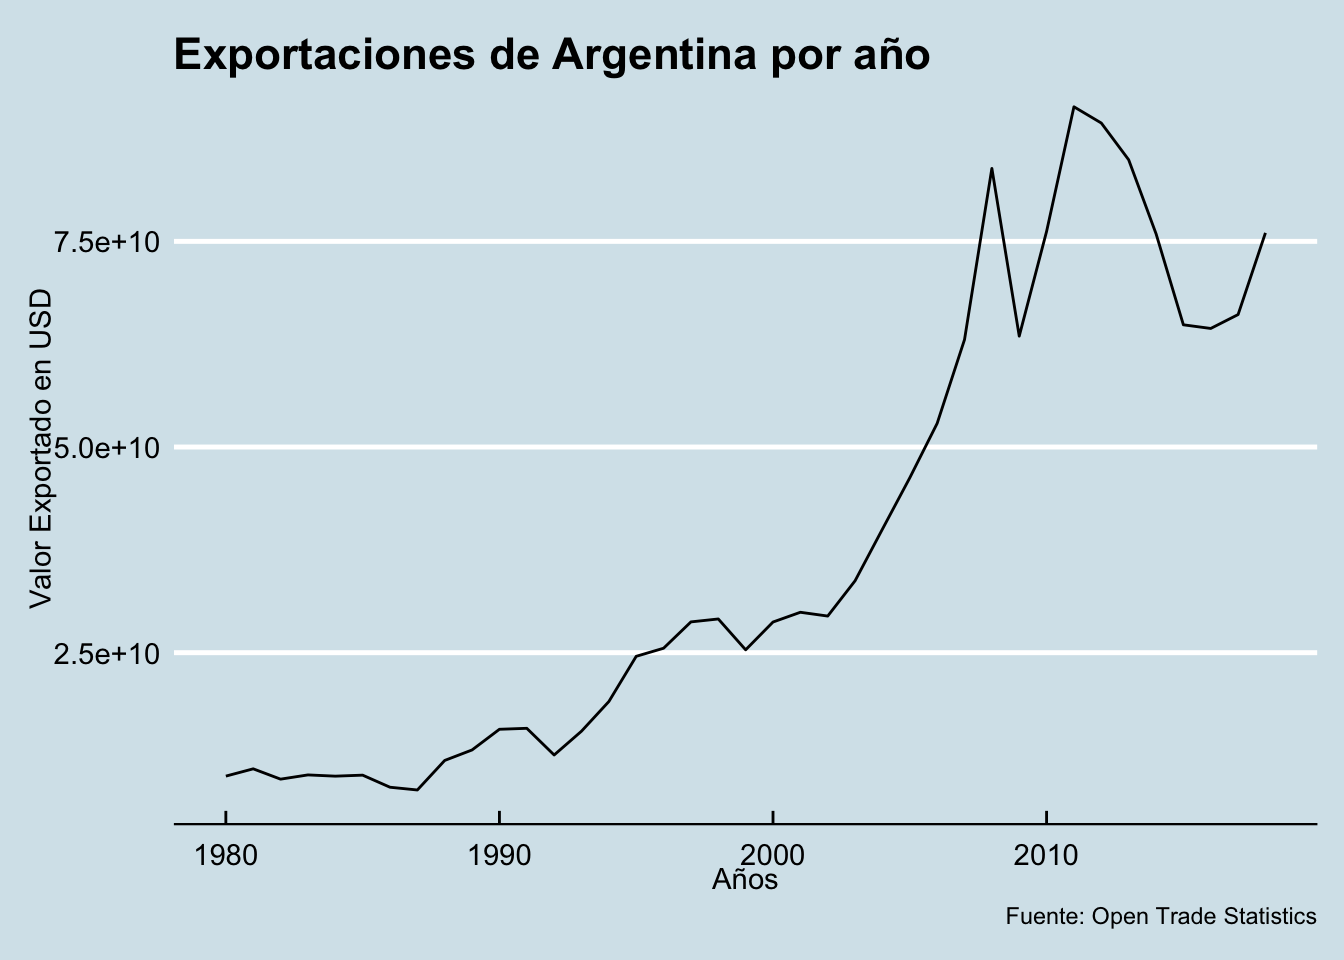
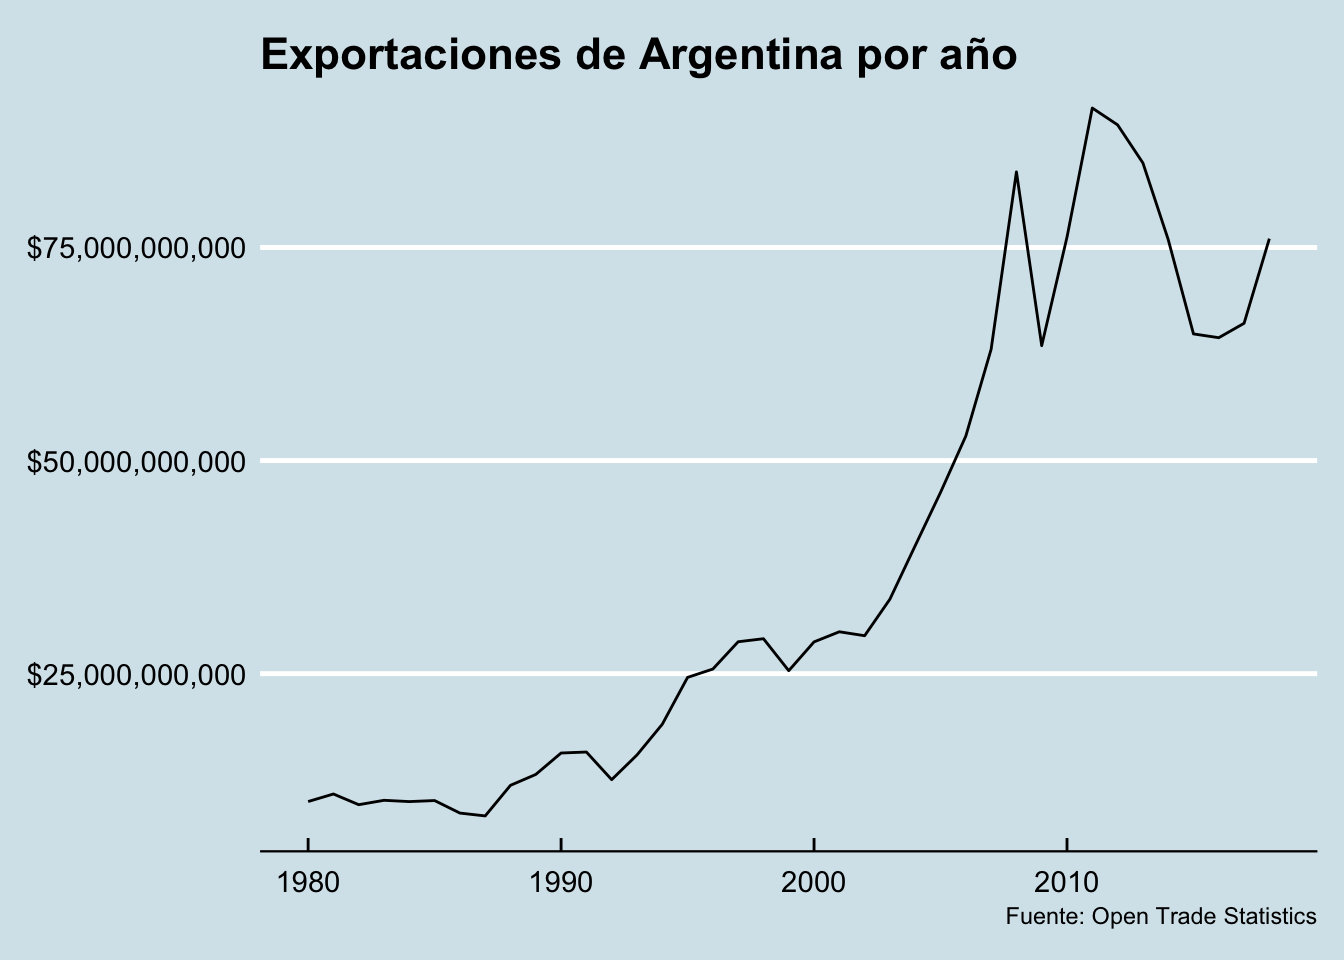
Changes y-axis in ggplot to USD

diff --git a/content/post/2020-12-07-exportacion-argentina/index.html b/content/post/2020-12-07-exportacion-argentina/index.html
@@ -20,7 +20,8 @@ output:
 library(ggplot2)
 library(tradestatistics)
 library(treemapify)
-library(ggthemes)</code></pre>
+library(ggthemes)
+library(scales)</code></pre>
 <div id="los-datos" class="section level2">
 <h2>Los datos:</h2>
 <p>Después voy cargando el base de datos que deseo utilizar:</p>
@@ -43,10 +44,11 @@ library(ggthemes)</code></pre>
 <pre class="r"><code>ggplot(data = argentina_export, aes(x = year, y = export_value_usd)) +
   geom_line() +
   labs(
-    x = &quot;Años&quot;,
-    y = &quot;Valor Exportado en USD&quot;,
+    x = NULL,
+    y = NULL,
     title = &quot;Exportaciones de Argentina por año&quot;,
     caption = &quot;Fuente: Open Trade Statistics&quot;) +
+  scale_y_continuous(labels = scales::dollar_format()) +
   theme_economist() +
   theme(legend.position = &quot;bottom&quot;)</code></pre>
 <p><img src="index_files/figure-html/argentina%20export%20grafico-1.png" width="672" /></p>
@@ -75,9 +77,10 @@ comercio_arg &lt;- comercio_mundo %&gt;%
 <pre class="r"><code>ggplot(data = comercio_arg,aes(x = anio, y = valor_exportado_dolares, fill = region)) +
   geom_col(position = &quot;dodge2&quot;) +
   labs(
-    x = &quot;Años&quot;,
-    y = &quot;Valor Exportado en USD&quot;,
+    x = NULL,
+    y = NULL,
     title = &quot;Exportaciones de Argentina por region&quot;) +
+  scale_y_continuous(labels = scales::dollar_format()) +
   theme_economist() +
   theme(legend.position = &quot;bottom&quot;)</code></pre>
 <p><img src="index_files/figure-html/arg%20export%20grafico-1.png" width="672" /></p>

diff --git a/content/post/2020-12-07-exportacion/index.html b/content/post/2020-12-07-exportacion/index.html
@@ -20,7 +20,8 @@ output:
 library(tidyverse)
 library(ggplot2)
 library(ggforce) #para graficos de sets paralelos
-library(ggthemes)</code></pre>
+library(ggthemes)
+library(scales)</code></pre>
 <p>En segundo lugar, eligo los datos que necesito para realizar el set de parelelo. Solamente se analiza para el año 2018:</p>
 <pre class="r"><code>export_producto_2017 &lt;- readr::read_csv(&quot;https://raw.githubusercontent.com/cienciadedatos/datos-de-miercoles/master/datos/2019/2019-05-01/comercio_hispanoamerica_mundo_agregado.csv&quot;) %&gt;%
   filter(anio == &quot;2017&quot;,
@@ -37,9 +38,12 @@ library(ggthemes)</code></pre>
     Destino = ifelse(pais_destino_pertenece_a_hispanoamerica == 1, &quot;América Latina&quot;, &quot;Resto del mundo&quot;),
     Producto = as.factor(nombre_comunidad_producto))</code></pre>
 <pre class="r"><code>ggplot(export_producto_2017, aes(x = fct_infreq(Producto))) +
-  geom_bar() +
-  labs(title = &quot;Productos exportado America Latina (2017)&quot;,
-       caption = &quot;Fuente: Open Trade Statistics&quot;) +
+  geom_bar(fill = &quot;dark blue&quot;) +
+  labs(
+    x = NULL,
+    y = NULL,
+    title = &quot;Productos exportado America Latina (2017)&quot;,
+    caption = &quot;Fuente: Open Trade Statistics&quot;) +
   coord_flip() +
   theme_economist()</code></pre>
 <p><img src="index_files/figure-html/bar%20lot-1.png" width="672" /></p>

diff --git a/content/post/2020-12-07-datos-historicos/index.html b/content/post/2020-12-07-datos-historicos/index.html
@@ -20,7 +20,8 @@ output:
 <pre class="r"><code>library(tidyverse)
 library(tradestatistics)
 library(ggplot2)
-library(ggthemes)</code></pre>
+library(ggthemes)
+library(scales)</code></pre>
 </div>
 <div id="los-datos" class="section level2">
 <h2>Los datos</h2>
@@ -66,8 +67,9 @@ I rename the column “reporter_iso” to be able to merge it with the second da
   geom_line(aes(year,
                 import_value_usd,
                 color = &quot;blue&quot;)) +
+  scale_y_continuous(labels = scales::dollar_format()) +
     labs(title = &quot;Import y export de América Latina&quot;,
-       y = &quot;USD&quot;,
+       y = NULL,
        x = NULL,
        caption = &quot;Fuente: Open Trade Statistics&quot;) +
   theme_economist() +
@@ -138,8 +140,9 @@ comercio_latam_caribbean &lt;- comercio_latam_modificado %&gt;%
                 trade,
                 group = country_fullname_english,
                 color = country_fullname_english)) +
+  scale_y_continuous(labels = scales::dollar_format()) +
   labs(title = &quot;Evolución comercial en América Latina&quot;,
-       y = &quot;Total comercio en USD&quot;,
+       y = NULL,
        x = NULL) +
   theme_economist() +
   theme(legend.position = &quot;bottom&quot;)</code></pre>
